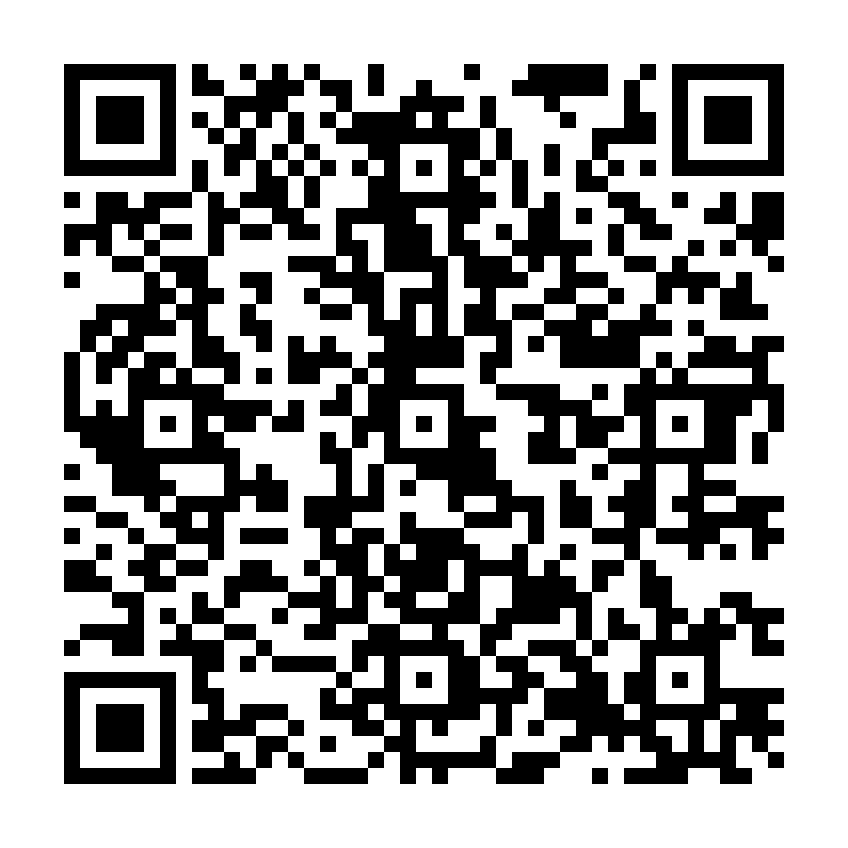
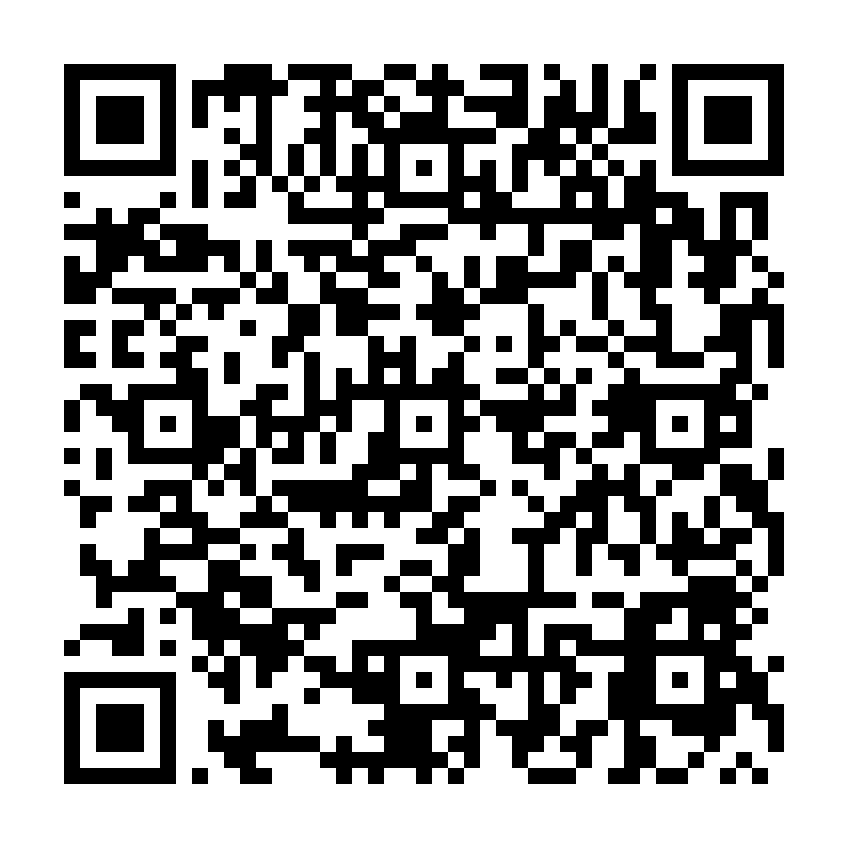
update4.9

diff --git a/index.html b/index.html
@@ -2,6 +2,6 @@
 <body>
 
 <h1 align="center"><font face="Bookman Old Style">Signals and Systems</font></h1>
-<p align=center><img src="2019.4.2_02.jpg" width="50%"></p>
+<p align=center><img src="2019.4.9_01.jpg" width="50%"></p>
 </body>
 </html>
